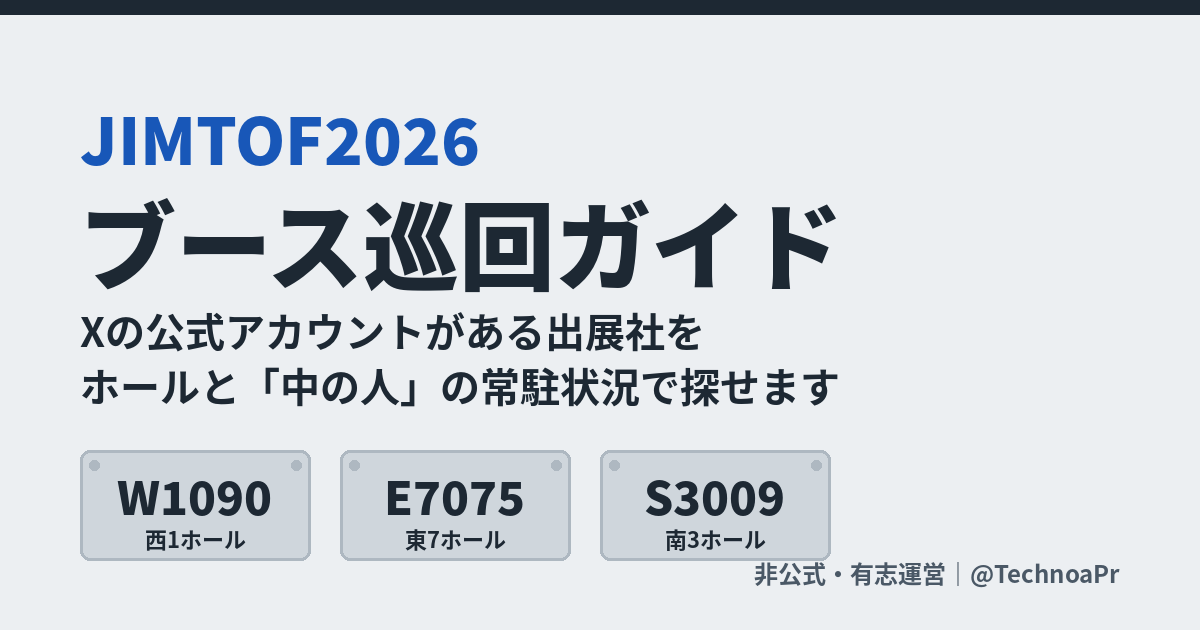
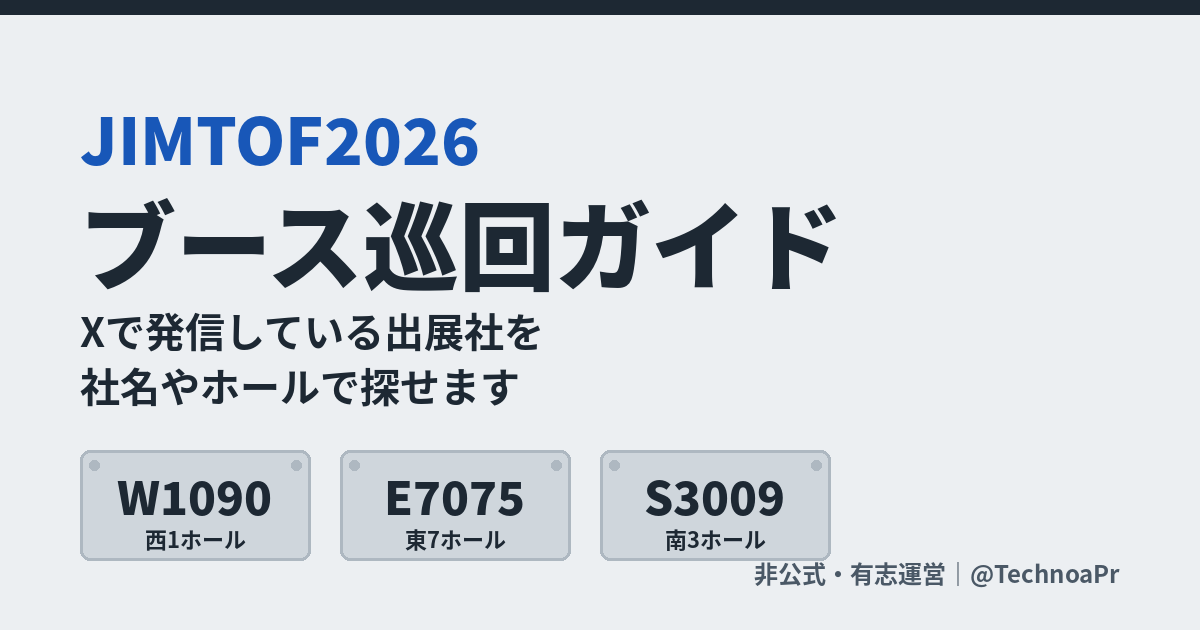
Add files via upload

Changed region(s): [[0.0617, 0.4825, 0.7092, 0.6635]]

diff --git a/index.html b/index.html
@@ -4,7 +4,7 @@
 <meta charset="utf-8">
 <meta name="viewport" content="width=device-width, initial-scale=1, viewport-fit=cover">
 <title>JIMTOF2026 ブース巡回｜X公式アカウントのある出展社ガイド（非公式）</title>
-<meta name="description" content="JIMTOF2026でXの公式アカウントを運用している出展社を、ホールや中の人の常駐状況で絞り込んで巡回できる非公式ガイドです。">
+<meta name="description" content="JIMTOF2026でXの公式アカウントを運用している出展社を、社名やホールで探して巡回できる非公式ガイドです。">
 <meta name="theme-color" content="#1d2833">
 <link rel="manifest" href="manifest.webmanifest">
 <link rel="icon" href="icons/icon-192.png">
@@ -15,7 +15,7 @@
 <!-- OGP（Xのリンクカード） -->
 <meta property="og:type" content="website">
 <meta property="og:title" content="JIMTOF2026 ブース巡回｜X公式アカウントのある出展社ガイド">
-<meta property="og:description" content="Xの中の人に会いに行こう。ホールと常駐状況で絞り込める非公式ガイドです。">
+<meta property="og:description" content="Xで発信している出展社を、社名やホールで探せる非公式ガイドです。">
 <meta property="og:url" content="https://technoapr.github.io/JIMTOF2026/">
 <meta property="og:image" content="https://technoapr.github.io/JIMTOF2026/ogp.png">
 <meta name="twitter:card" content="summary_large_image">
@@ -83,7 +83,7 @@ a{color:inherit}
 .btn-guide{flex:none;border:1.5px solid var(--ink);background:transparent;color:var(--ink);border-radius:999px;padding:7px 14px;font:inherit;font-size:.85rem;font-weight:700;cursor:pointer;text-decoration:none}
 
 /* filters */
-.filters{display:grid;grid-template-columns:1fr 1fr;gap:8px;padding-bottom:10px}
+.filters{display:grid;grid-template-columns:1fr;gap:8px;padding-bottom:10px}
 .search{grid-column:1/-1;position:relative}
 .search input{width:100%;font:inherit;font-size:16px;padding:11px 40px 11px 14px;border:1.5px solid var(--line);border-radius:10px;background:var(--surface);color:var(--ink)}
 .search input:focus{border-color:var(--accent);outline:none}
@@ -180,7 +180,7 @@ select{width:100%;font:inherit;font-size:16px;padding:9px 30px 9px 10px;border:1
 
 @media (max-width:374px){.item{grid-template-columns:76px 1fr;gap:10px}.brand small{font-size:.66rem}}
 @media (min-width:560px){
-  .filters{grid-template-columns:2fr 1fr 1fr}
+  .filters{grid-template-columns:2fr 1fr}
   .search{grid-column:auto}
 }
 @media (prefers-reduced-motion:reduce){*{transition:none!important;animation:none!important}.item:active{transform:none}}
@@ -389,7 +389,6 @@ function filtered() {
   const q = fold(state.q);
   return state.rows.filter(r =>
     (state.hall === "all" || r.group === state.hall) &&
-    (state.status === "all" || r.status === state.status) &&
     (!q || r.hay.includes(q)));
 }
 
@@ -404,7 +403,7 @@ function resultsHTML() {
     ? `<a class="maplink" href="${esc(mapUrl(state.hall))}" target="_blank" rel="noopener">${MAP_ICON}<span>${esc(groupLabel(state.hall))}の公式マップを開く</span>${EXT_ICON}</a>` : "";
   return mapTop + `<ul class="list">${rows.map(r => `<li class="entry"><a class="item" href="#/booth/${encodeURIComponent(r.id)}">
       ${plate(r)}
-      <div class="body"><div class="badges">${badge(r.status)}${isOperator(r) ? '<span class="op-badge">このガイドの運営ブース</span>' : ""}</div>
+      <div class="body">${isOperator(r) ? '<span class="op-badge">このガイドの運営ブース</span>' : ""}
         <h2 class="name">${esc(r.name)}</h2>
         <p class="feat">${esc(r.feat)}</p>
         ${r.handle ? `<span class="handle">${X_SVG}@${esc(r.handle)}</span>` : ""}
@@ -423,17 +422,15 @@ function updateResults() {
   document.getElementById("clear").classList.toggle("show", !!state.q);
   const reset = document.getElementById("reset");
   if (reset) reset.addEventListener("click", () => {
-    state.q = ""; state.hall = "all"; state.status = "all";
+    state.q = ""; state.hall = "all";
     document.getElementById("q").value = "";
     document.getElementById("hall").value = "all";
-    document.getElementById("status").value = "all";
     updateResults();
   });
 }
 
 function listView() {
   const hallOpts = HALL_GROUPS.map(g => `<option value="${g.key}"${state.hall === g.key ? " selected" : ""}>${g.label}</option>`).join("");
-  const stOpts = Object.entries(STATUS).map(([k, v]) => `<option value="${k}"${state.status === k ? " selected" : ""}>${v.label}</option>`).join("");
   return `
   <header class="top"><div class="wrap">
     <div class="top-row">
@@ -446,7 +443,6 @@ function listView() {
         <button class="clear" id="clear" aria-label="検索語を消す">×</button>
       </div>
       <select id="hall" aria-label="ホールで絞り込む"><option value="all">すべてのホール</option>${hallOpts}</select>
-      <select id="status" aria-label="常駐状況で絞り込む"><option value="all">常駐：すべて</option>${stOpts}</select>
     </div>
     <div class="count" id="count"></div>
   </div></header>
@@ -468,14 +464,14 @@ function detailView(id) {
     : r.evidence ? `<span class="src">情報のもと：${esc(r.evidence)}</span>` : "";
   return `<main class="wrap page">
     <p class="crumb"><a href="#/">ブース一覧</a> / ${esc(r.name)}</p>
-    <div class="d-head">${plate(r)}<div><div class="badges">${badge(r.status)}${isOperator(r) ? '<span class="op-badge">このガイドの運営ブース</span>' : ""}</div><h1 class="d-name">${esc(r.name)}</h1></div></div>
+    <div class="d-head">${plate(r)}<div>${isOperator(r) ? '<span class="op-badge">このガイドの運営ブース</span>' : ""}<h1 class="d-name">${esc(r.name)}</h1></div></div>
     ${r.group && r.group !== "tbd" && r.group !== "other" ? `<a class="mapbtn" href="${esc(mapUrl(r.group))}" target="_blank" rel="noopener">${PIN_ICON}<span class="grow"><b>${esc(groupLabel(r.group))}の公式マップを開く</b><small>JIMTOF公式サイトの会場図が開きます</small></span>${EXT_ICON}</a>` : ""}
     <section class="card"><h2>展示内容・特徴</h2><p>${esc(r.feat) || "情報募集中です"}</p></section>
     ${r.handle ? `<section class="card"><h2>X アカウント</h2>
       <a class="xbtn" id="xlink" href="https://x.com/${encodeURIComponent(r.handle)}" target="_blank" rel="noopener">${X_SVG}<span><b>@${esc(r.handle)}</b><span>タップしてXを開く</span></span></a>
       ${ev}</section>` : ""}
     ${others.length ? `<section class="card others"><h2>この会社のほかのブース</h2>${others.map(o => `<a href="#/booth/${encodeURIComponent(o.id)}">${esc(o.booth || "調査中")}（${esc(o.hall || "ホール調査中")}）</a>`).join("")}</section>` : ""}
-    <p class="note">ブース位置や常駐状況が違っていたら、<a href="https://x.com/${CONFIG.CONTACT_X}" target="_blank" rel="noopener">@${CONFIG.CONTACT_X}</a> へDMで教えてください。</p>
+    <p class="note">ブースの場所などが違っていたら、<a href="https://x.com/${CONFIG.CONTACT_X}" target="_blank" rel="noopener">@${CONFIG.CONTACT_X}</a> へDMで教えてください。</p>
     <a class="back" href="#/">← ブース一覧へ戻る</a>
   </main>`;
 }
@@ -486,13 +482,7 @@ function guideView() {
     <h1 class="d-name" style="margin-bottom:14px">ガイド・お知らせ</h1>
     <section class="card"><h2>使い方</h2>
       <ul class="g-list">
-        <li><strong>🔍 検索・絞り込み</strong>社名やキーワードで検索できます。展示ホールと常駐状況を組み合わせて絞り込めます。</li>
-        <li><strong>🏷 常駐状況の見方</strong>
-          <div class="g-st">
-            <div>${badge("stay")}<span>中の人がブースにいる予定です</span></div>
-            <div>${badge("maybe")}<span>来場するかもしれません。投稿をチェックしてみてください</span></div>
-            <div>${badge("open")}<span>まだ情報が届いていません。ご存じの方はぜひお知らせください</span></div>
-          </div></li>
+        <li><strong>🔍 検索・絞り込み</strong>社名やキーワードで検索できます。展示ホールで絞り込むこともできます。</li>
         <li><strong>📌 詳細を見る</strong>ブースをタップすると、Xアカウントなどの詳しい情報を確認できます。</li>
         <li><strong>📱 インストールは不要です</strong>このページはブラウザでそのまま使えます。もっと手軽に開きたい方は、ホーム画面に追加しておくと便利です（iPhoneはSafariの共有ボタン→「ホーム画面に追加」、Androidはメニュー→「ホーム画面に追加」）。</li>
       </ul></section>
@@ -501,14 +491,21 @@ function guideView() {
       <ul class="dots">
         <li>「調査中」になっているブースのホール・小間番号</li>
         <li>新しく追加したい出展社の情報</li>
-        <li>常駐状況の変更や訂正</li>
         <li>そのほか気になる点</li>
       </ul>
       <a class="btn-primary" href="https://x.com/${CONFIG.CONTACT_X}" target="_blank" rel="noopener">${X_SVG}@${CONFIG.CONTACT_X} に連絡する</a>
     </section>
     ${operatorCard()}
+    <section class="card"><h2>掲載のルール</h2>
+      <ul class="dots">
+        <li>主に各社の公式Xの投稿をもとに掲載しています</li>
+        <li>ホール・小間番号も、各社の投稿や公式の出展情報で確認しています</li>
+        <li>確認できないブースは「調査中」と表示しています</li>
+        <li>情報は随時更新します</li>
+      </ul>
+    </section>
     <section class="card"><h2>このガイドについて</h2>
-      <p class="note">有志が運営する非公式ガイドで、JIMTOF主催者とは関係ありません。掲載内容は各社の公開投稿などをもとにしています。会場図や公式情報は<a href="${CONFIG.OFFICIAL_URL}" target="_blank" rel="noopener">JIMTOF公式サイト</a>でご確認ください。${CONFIG.GA4_ID ? "<br>サービス改善のため、Googleアナリティクスでアクセス状況（どのブースが見られたかなど）を計測しています。個人を特定する情報は集めていません。" : ""}</p>
+      <p class="note">有志が運営する非公式ガイドで、JIMTOF主催者とは関係ありません。会場図や公式情報は<a href="${CONFIG.OFFICIAL_URL}" target="_blank" rel="noopener">JIMTOF公式サイト</a>でご確認ください。${CONFIG.GA4_ID ? "<br>サービス改善のため、Googleアナリティクスでアクセス状況（どのブースが見られたかなど）を計測しています。個人を特定する情報は集めていません。" : ""}</p>
     </section>
     <a class="back" href="#/">← ブース一覧へ戻る</a>
   </main>`;
@@ -560,7 +557,6 @@ function bindList() {
   q.addEventListener("input", e => { if (!composing && !e.isComposing) apply(); });
   document.getElementById("clear").addEventListener("click", () => { q.value = ""; apply(); q.focus(); });
   document.getElementById("hall").addEventListener("change", e => { state.hall = e.target.value; updateResults(); });
-  document.getElementById("status").addEventListener("change", e => { state.status = e.target.value; updateResults(); });
 
 }
 
